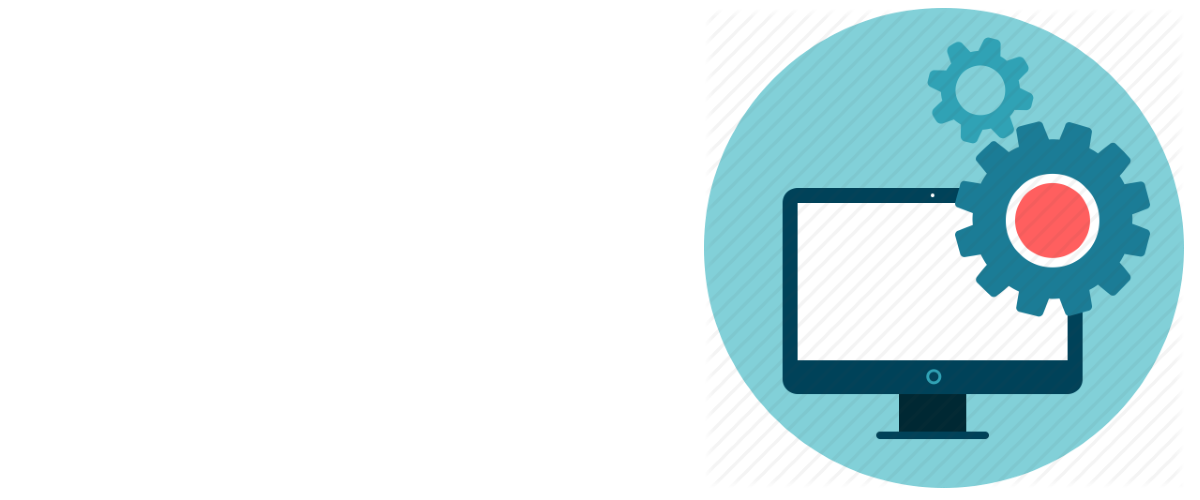
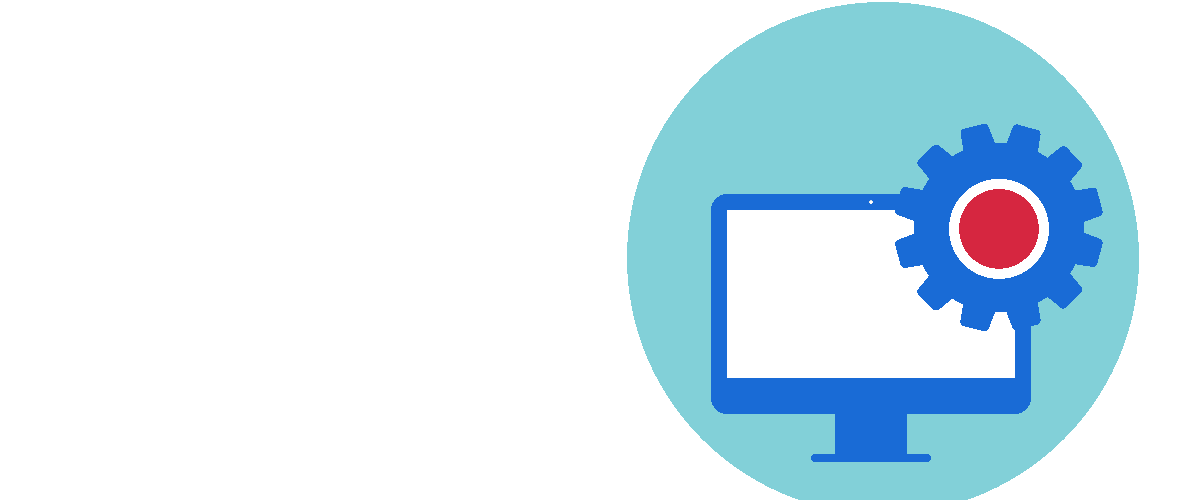
Imporved angular app style and added new background images

Changed region(s): [[0.5242, 0.0, 0.9867, 1.0], [0.8325, 0.93, 0.8633, 0.96]]

diff --git a/ResourceApplicationTool/app/projects/tasks-list.component.html b/ResourceApplicationTool/app/projects/tasks-list.component.html
@@ -32,7 +32,8 @@
                     <td width="250" class="employee-name-td">
                         {{employee.FirstName}} {{employee.LastName}}
                     </td>
-                    <td *ngFor='let day of employee.Days; let dayIndex = index'>
+                    <td *ngFor='let day of employee.Days; let dayIndex = index'
+                        [ngClass]="{'task-hover-current': day.hovering}">
                         <div *ngIf='day.task'>
                             <div *ngIf='!day.focused'
                                     class="taskTemplate taskTemplate{{day.task.TemplateID}} taskTemplate-stationary">
@@ -81,7 +82,9 @@
                         <div *ngIf='!day.task'
                                 class="task-droppable"
                                 mwlDroppable
-                                (drop)="onDrop($event,day,employee)">
+                                (drop)="onDrop($event,day,employee)"
+                             (dragEnter)="onDragEnter($event,day,employee)"
+                             (dragLeave)="onDragLeave($event,day,employee)">
                         </div>
                     </td>
 

diff --git a/ResourceApplicationTool/app/projects/tasks-list.component.ts b/ResourceApplicationTool/app/projects/tasks-list.component.ts
@@ -96,6 +96,25 @@ export class TasksListComponent implements OnInit {
         this.draggedTaskID = taskID;
         console.log('Element was dragged', event);
     }
+    onDragEnter(event: any, day: any, employee: any): void {
+        console.log("Entered Square: " + event);
+        for (let i = 0; i < employee.Days.length; i++) {
+            if (employee.Days[i] && employee.Days[i].date == day.date)
+            {
+                employee.Days[i].hovering = true;
+            }
+        }
+    }
+
+    onDragLeave(event: any, day: any, employee: any): void {
+        console.log("Left Square: " + event);
+        for (let i = 0; i < employee.Days.length; i++) {
+            if (employee.Days[i] && employee.Days[i].date == day.date) {
+                employee.Days[i].hovering = false;
+            }
+        }
+    }
+     
     onDrop(event: DragEvent, day: any, employee: any): void {
         try {
             console.log("Using the following template: " + this.draggedTaskID);

diff --git a/ResourceApplicationTool/app/projects/tasks-list.component.js b/ResourceApplicationTool/app/projects/tasks-list.component.js
@@ -57,6 +57,22 @@ var TasksListComponent = (function () {
         this.draggedTaskID = taskID;
         console.log('Element was dragged', event);
     };
+    TasksListComponent.prototype.onDragEnter = function (event, day, employee) {
+        console.log("Entered Square: " + event);
+        for (var i = 0; i < employee.Days.length; i++) {
+            if (employee.Days[i] && employee.Days[i].date == day.date) {
+                employee.Days[i].hovering = true;
+            }
+        }
+    };
+    TasksListComponent.prototype.onDragLeave = function (event, day, employee) {
+        console.log("Left Square: " + event);
+        for (var i = 0; i < employee.Days.length; i++) {
+            if (employee.Days[i] && employee.Days[i].date == day.date) {
+                employee.Days[i].hovering = false;
+            }
+        }
+    };
     TasksListComponent.prototype.onDrop = function (event, day, employee) {
         var _this = this;
         try {

diff --git a/ResourceApplicationTool/Content/Styles/commonStyle.css b/ResourceApplicationTool/Content/Styles/commonStyle.css
@@ -133,7 +133,8 @@ a.main_expand_collapse
     margin: 15px 5px;
 }
 .settings-logo{
-    background:url(../Pictures/settings_background_img.png) no-repeat right fixed;
+    background:url(../Pictures/settings_background.png) no-repeat right fixed;
+    background-position-y: top;
     top:0px;
 }
 input[type="file"].picture-input{

diff --git a/ResourceApplicationTool/app/projects/tasks-list.component.css b/ResourceApplicationTool/app/projects/tasks-list.component.css
@@ -214,6 +214,10 @@
      margin-right:auto;
  }
 
+ .task-hover-current{
+     background-color:#eee;
+     /*transition:0.01s;*/
+ }
 @media (max-width: 1200px) {
     #templatesContainer .taskTemplate-holder {
         display: inline-block;
